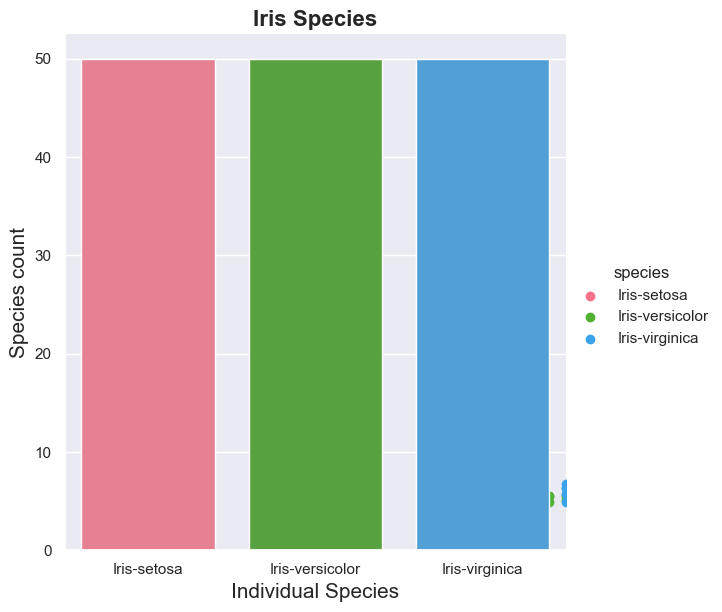
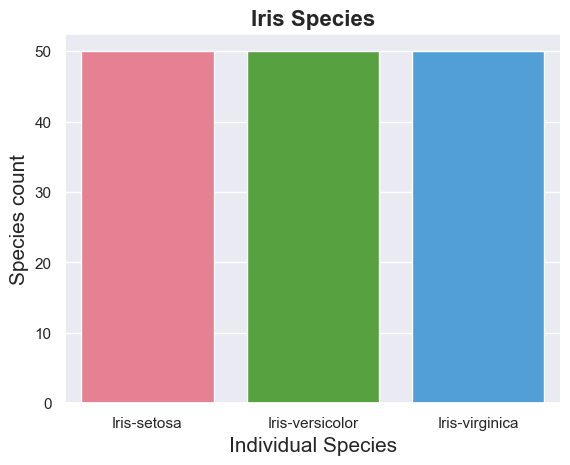
Updating plots - consistency is getting better

diff --git a/dataVis.py b/dataVis.py
@@ -182,6 +182,7 @@ def species_histo():
 # Function calls for testing
 # Commented out because analysis.py is 
 # doing the calling of the functions below.
+"""
 petal_relation() 
 sepal_relation()
 species()
@@ -193,3 +194,4 @@ box_violin_plots()
 histo_plots()
 kde()
 species_histo()
+"""
